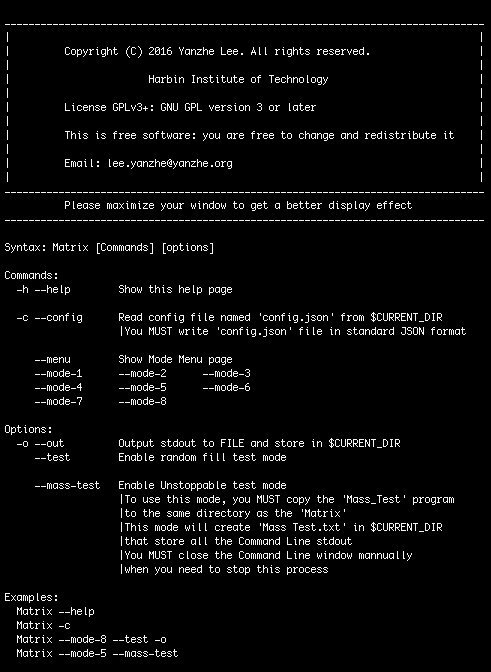
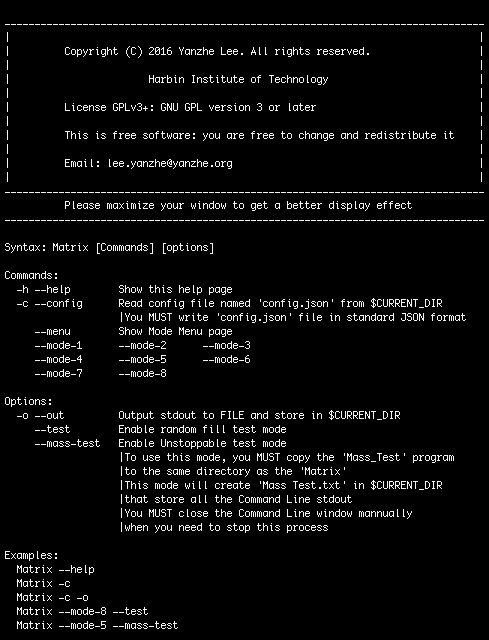
Update

Changed region(s): [[0.0, 0.0312, 0.9816, 0.875], [0.0, 0.8438, 0.3681, 1.0], [0.0307, 0.4688, 0.0613, 0.5]]

diff --git a/Matrix/Independent_Functions.c b/Matrix/Independent_Functions.c
@@ -268,11 +268,9 @@ void Show_Help_Page()
     puts("\nSyntax: Matrix [Commands] [options]\n");
     
     puts("Commands:");
-    puts("  -h --help        Show this help page\n");
-    
+    puts("  -h --help        Show this help page");
     puts("  -c --config      Read config file named 'config.json' from $CURRENT_DIR");
-    puts("                   |You MUST write 'config.json' file in standard JSON format\n");
-    
+    puts("                   |You MUST write 'config.json' file in standard JSON format");
     puts("     --menu        Show Mode Menu page");
     puts("     --mode-1      --mode-2      --mode-3");
     puts("     --mode-4      --mode-5      --mode-6");
@@ -280,8 +278,7 @@ void Show_Help_Page()
     
     puts("Options:");
     puts("  -o --out         Output stdout to FILE and store in $CURRENT_DIR");
-    puts("     --test        Enable random fill test mode\n");
-    
+    puts("     --test        Enable random fill test mode");
     puts("     --mass-test   Enable Unstoppable test mode");
     puts("                   |To use this mode, you MUST copy the 'Mass_Test' program");
     puts("                   |to the same directory as the 'Matrix'");
@@ -293,7 +290,8 @@ void Show_Help_Page()
     puts("Examples:");
     puts("  Matrix --help");
     puts("  Matrix -c");
-    puts("  Matrix --mode-8 --test -o");
+    puts("  Matrix -c -o");
+    puts("  Matrix --mode-8 --test");
     puts("  Matrix --mode-5 --mass-test");
 }
 
